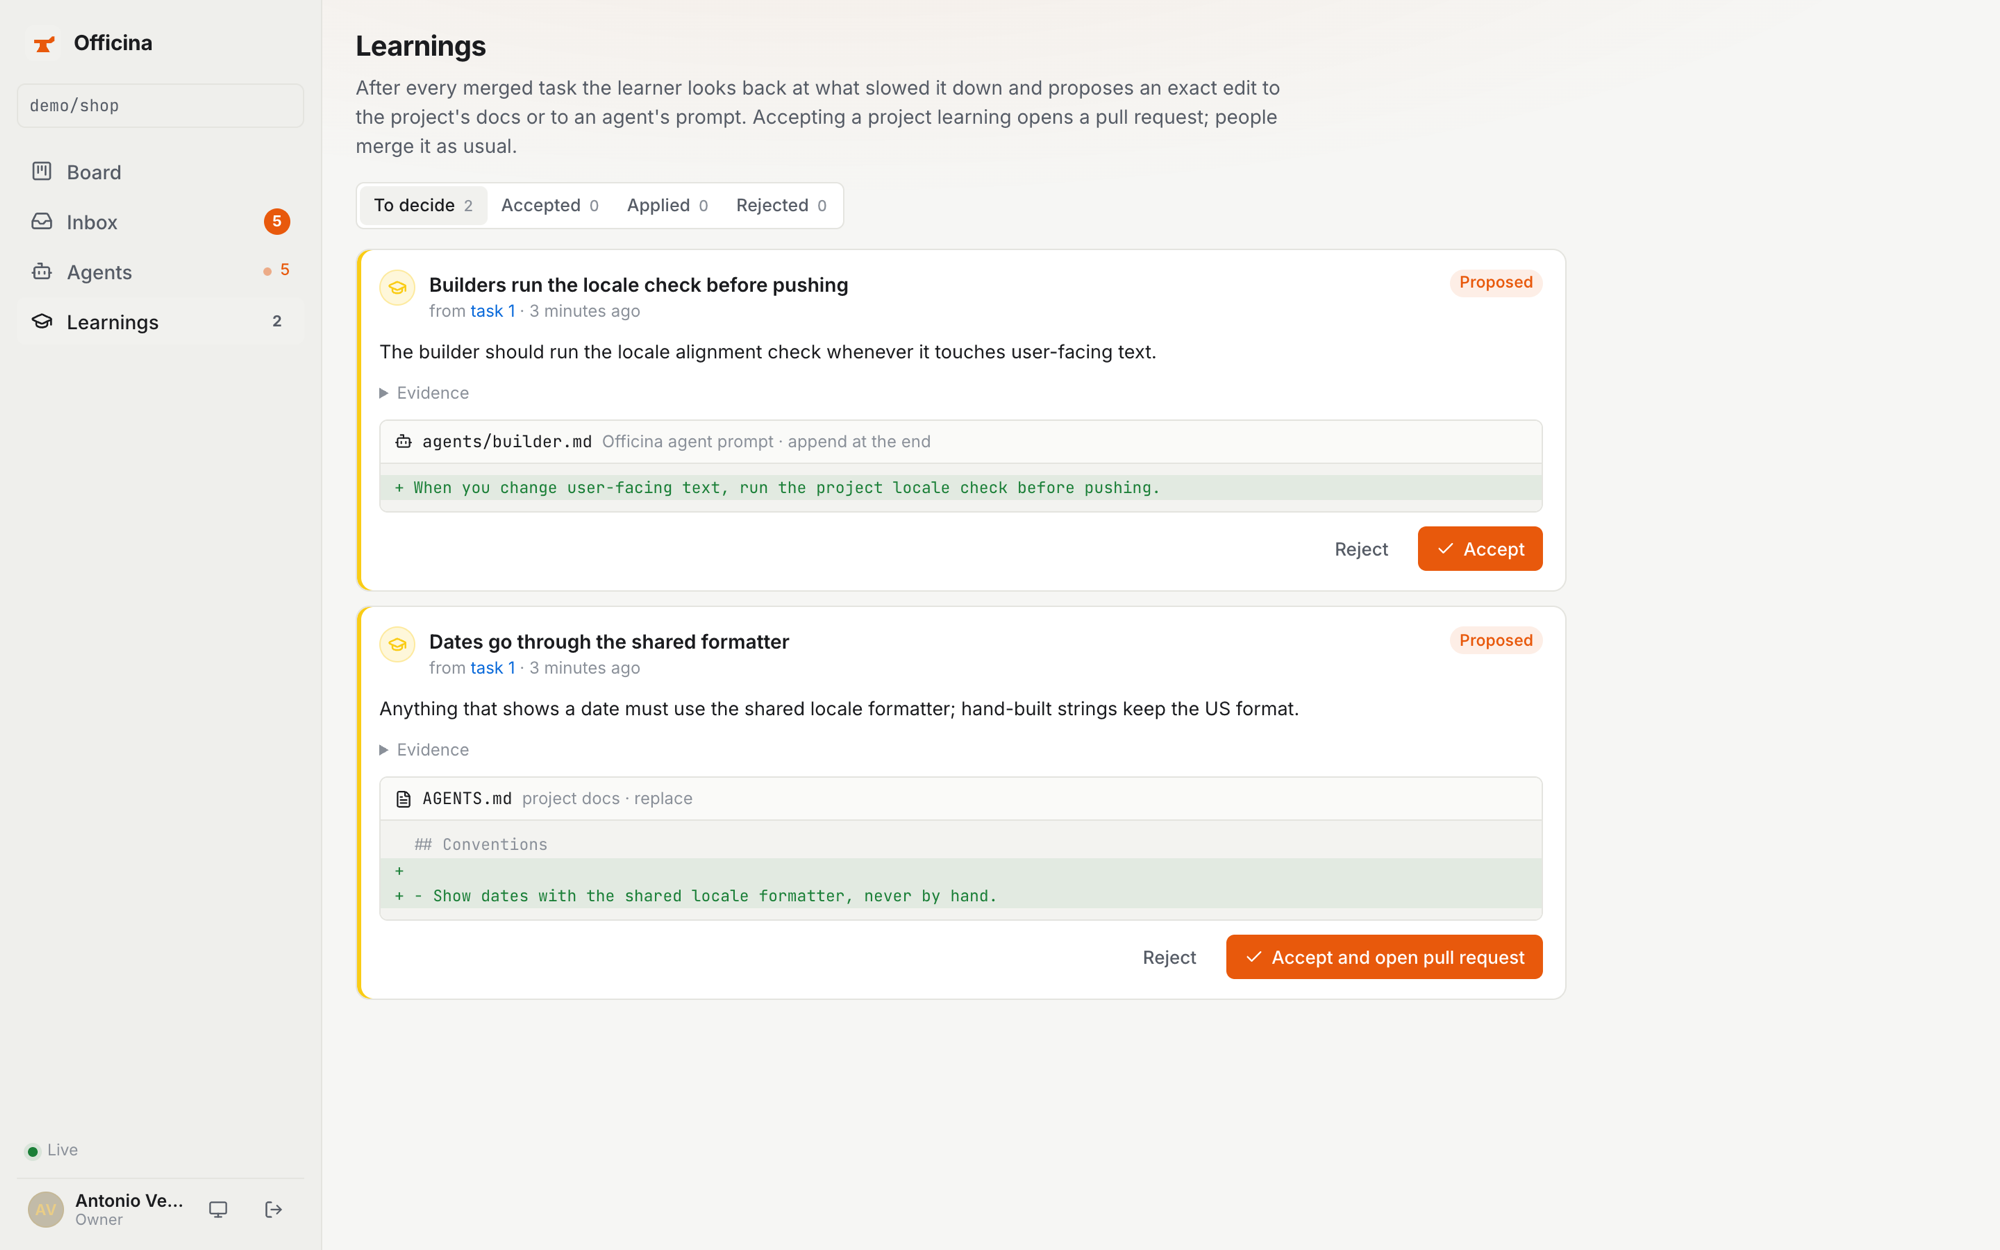
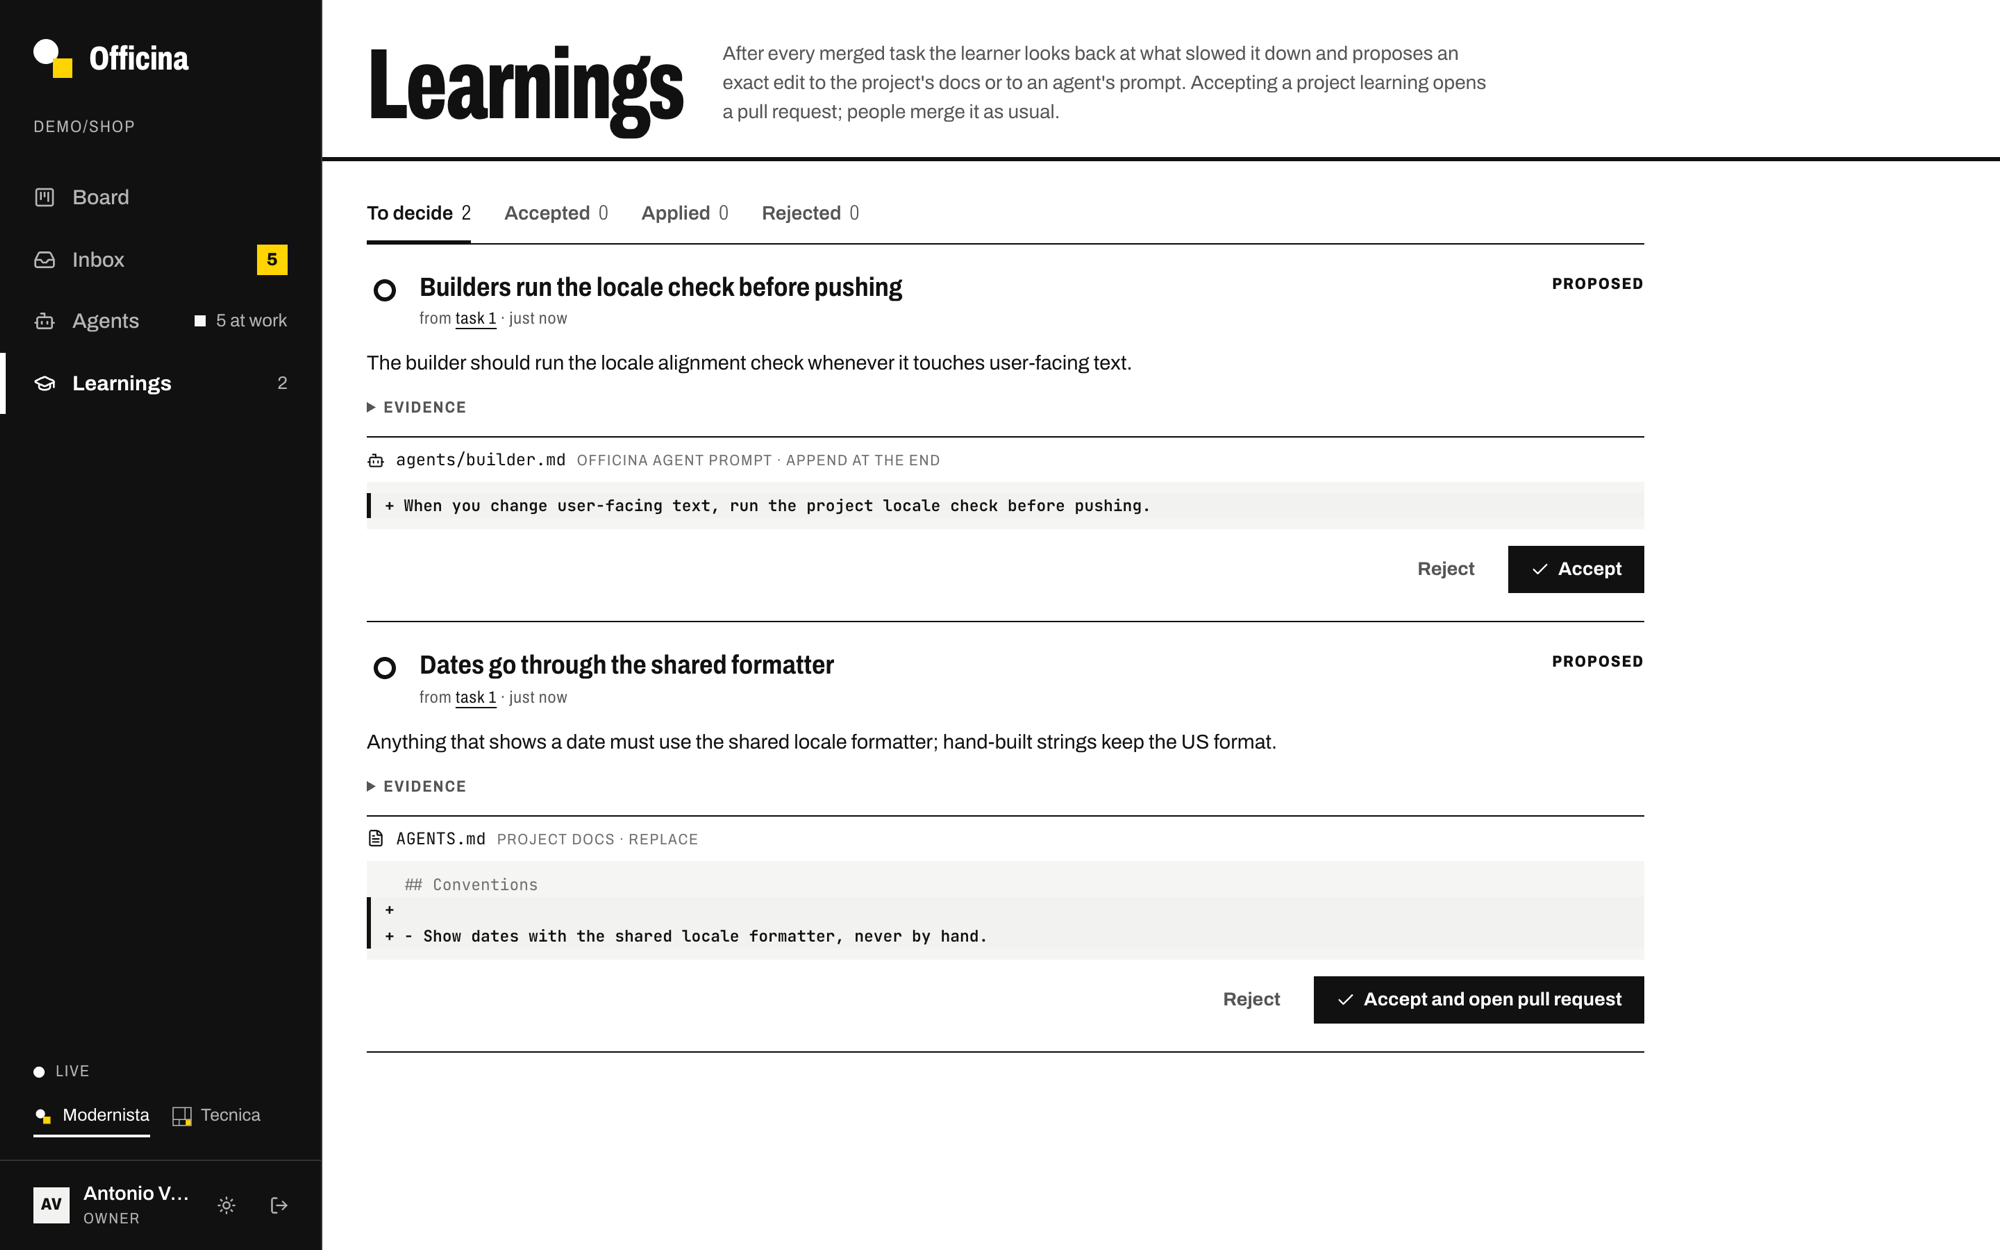
docs(readme): screenshots of the new Modernista and Tecnica looks

Changed region(s): [[0.0, 0.0, 1.0, 1.0], [0.558, 0.7488, 0.837, 0.8424], [0.713, 0.1872, 0.837, 0.2496]]

diff --git a/README.md b/README.md
@@ -20,7 +20,7 @@ Anyone on the team describes what they need. Agents **interview, spec, build and
 
 <picture>
   <source media="(prefers-color-scheme: dark)" srcset="./docs/assets/board-dark.png" />
-  <img src="./docs/assets/board-light.png" alt="The Officina board: Requests, Plan, Building, Check and Done columns, with risk lanes, costs and a 'Your turn' badge on every card waiting for a person" width="900" />
+  <img src="./docs/assets/board-light.png" alt="The Officina board in the Modernista look: Requests, Plan, Building, Check and Done columns, risk lanes as fill levels, agents as shapes, and a yellow block on every task that is waiting on you" width="900" />
 </picture>
 
 </div>
@@ -89,8 +89,19 @@ A change touching sensitive paths needs an owner's approval of the exact spec ve
 
 <table>
 <tr>
-<td width="50%"><img src="./docs/assets/agents.png" alt="The Agents page: spec writer, builder, spec reviewer, code reviewer and approval chooser, with runs, success rate and cost, and a list of live sessions" /><br/><sub><b>Agents</b>: every role, every session, live, with its cost</sub></td>
+<td width="50%"><img src="./docs/assets/agents.png" alt="The Agents page: spec writer, builder, spec reviewer, code reviewer and approval chooser, each with its own shape, runs, success rate and cost, and a list of live sessions" /><br/><sub><b>Agents</b>: every role has a shape; every session is live, with its cost</sub></td>
 <td width="50%"><img src="./docs/assets/learnings.png" alt="The Learnings page: two proposed learnings with evidence and the exact edit to an agent prompt or the project's AGENTS.md" /><br/><sub><b>Learnings</b>: proposed edits, accepted by people</sub></td>
+</tr>
+</table>
+
+### Two looks, light and dark
+
+Pick one in the sidebar footer, or set a project default with `board.look` in `.github/officina.yml`. **Modernista** is a strict grid with big numerals and a shape for every agent. **Tecnica** treats every task as a work order on a technical drawing, with risk drawn as hatching. In both, yellow means one thing only: it is your turn.
+
+<table>
+<tr>
+<td width="50%"><img src="./docs/assets/tecnica-light.png" alt="The board in the Tecnica look, light: tasks as bordered work orders with title-block footers, numbered columns, hatched risk lanes and three-letter agent codes" /><br/><sub><b>Tecnica</b>, light</sub></td>
+<td width="50%"><img src="./docs/assets/tecnica-dark.png" alt="The board in the Tecnica look, dark" /><br/><sub><b>Tecnica</b>, dark</sub></td>
 </tr>
 </table>
 
